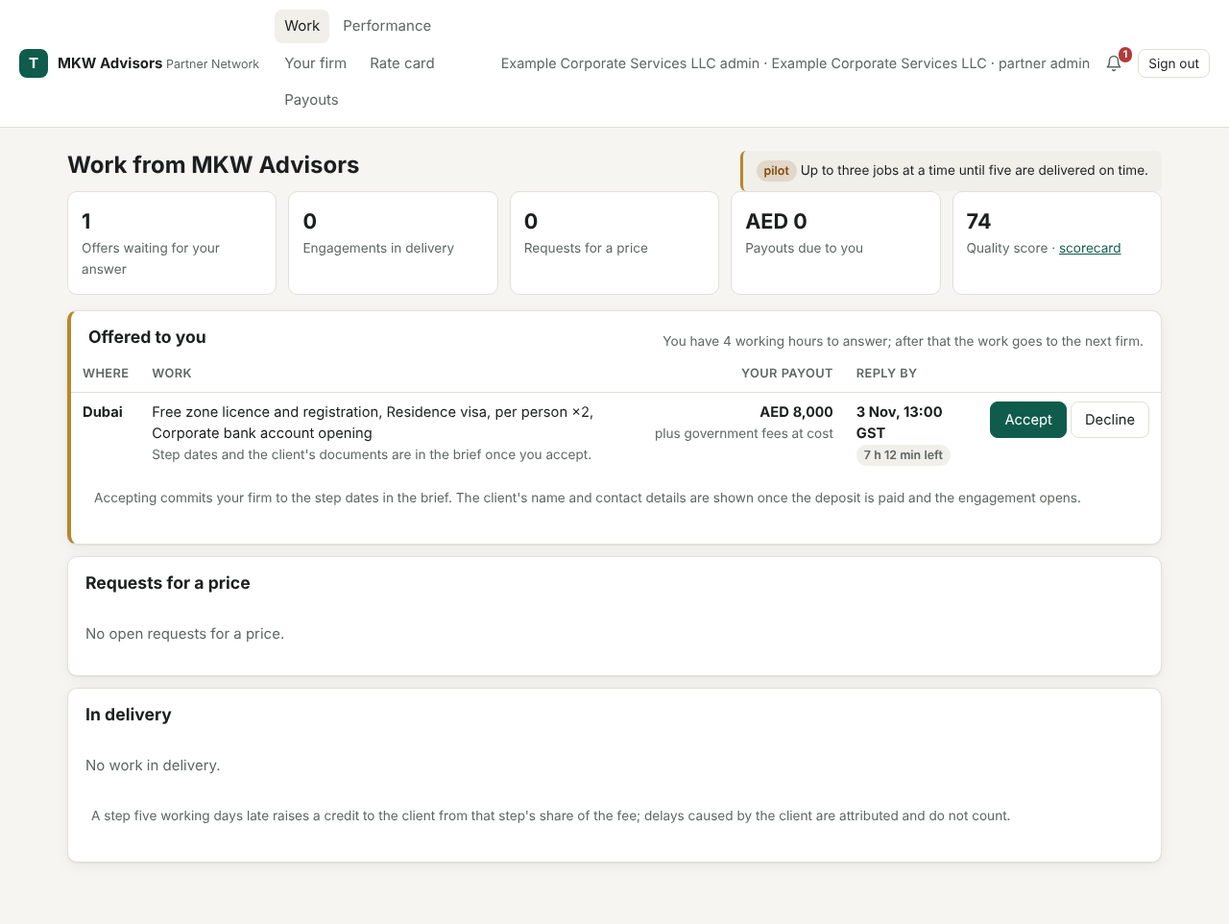
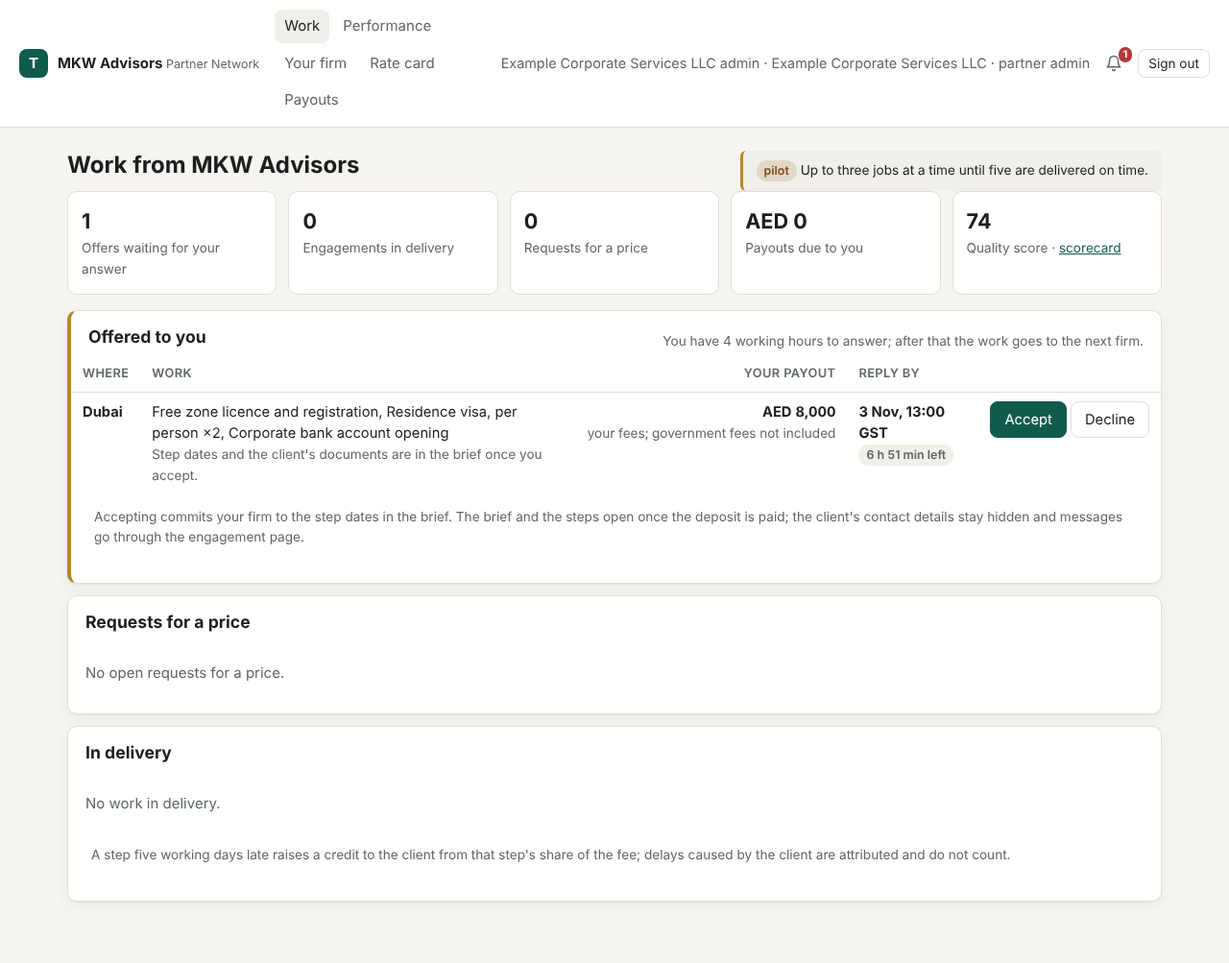
U1 review fixes: Priority tier keeps its name, toast above the tab bar, summary reason and count, partner wording
Codex (PR 23): "Faster" promised a pace the delivery plan does not keep; the tier reads "Priority", the offer switch
names no pace, gap 85 records the follow-up (quoted working days into offer lines, proposal and plan).
Independent review: the toast had no z-index under the phone tab bar; "In short" showed the first reason even when
the engine had moved away from the preferred or requested structure, and counted at most two points to confirm;
the partner work page claimed the client's contact details appear (rule 9) and both partner pages claimed
government fees are reimbursed against receipts (unverified; Ask-me recorded); "accepted" became "opened"; an
Arabic pattern for the offer chip; two smoke checks that could not fail tightened; the Arabic gap check the
outcome claimed now exists (U1 strings must not be in the reviewer's gap list; older gaps recorded as 87);
gap 86 for the partner tab title.

Claude-Session: https://claude.ai/code/session_01QzEGiu7q2Qy5LpHAKh2X9v

diff --git a/apps/web/public/i18n-ar.js b/apps/web/public/i18n-ar.js
@@ -527,11 +527,11 @@ export const AR = {
   "Compliance calendar": "تقويم الالتزامات",
   "Dates confirmed by a person at MKW Advisors; nothing is filed for you unless it is part of an offer.": "التواريخ يؤكدها شخص في MKW Advisors؛ ولا يُقدَّم أي شيء نيابة عنك ما لم يكن ضمن عرض.",
   "Full calendar": "التقويم الكامل",
-  "One offer, with a faster option": "عرض واحد، مع خيار أسرع",
+  "One offer, with another option": "عرض واحد، مع خيار آخر",
   "One offer, with other options": "عرض واحد، مع خيارات أخرى",
-  "The same scope and the same partner standard either way; only the pace differs.": "النطاق نفسه ومعيار الشريك نفسه في الحالتين؛ لا يختلف إلا الإيقاع.",
+  "The same scope and the same partner standard either way; the price and the partner firm differ.": "النطاق نفسه ومعيار الشريك نفسه في الحالتين؛ ويختلف السعر والشركة الشريكة.",
   "Choose an option": "اختر خياراً",
-  "Faster": "أسرع",
+  "Priority": "أولوية",
   "Standard": "قياسي",
   "Essential": "أساسي",
   "selected": "المحدد",
@@ -580,9 +580,10 @@ export const AR_PATTERNS = [
   // U1 workspace redesign (draft)
   [/^(A|An) (free zone company|mainland company|offshore company|DIFC or ADGM company)(?: in (.+?))? fits what you told us\.(?: (?:One thing needs|(\d+) things need) confirming before we quote\.)?$/, (m) => `${{ "free zone company": "شركة في منطقة حرة", "mainland company": "شركة في البر الرئيسي", "offshore company": "شركة أوفشور", "DIFC or ADGM company": "شركة في مركز دبي المالي العالمي أو سوق أبوظبي العالمي" }[m[2]]}${m[3] ? ` في ${m[3]}` : ""} تناسب ما أخبرتنا به.${m[4] ? ` ${m[4]} أمور تحتاج إلى تأكيد قبل أن نسعّر.` : /needs confirming/.test(m[0]) ? " أمر واحد يحتاج إلى تأكيد قبل أن نسعّر." : ""}`],
   [/^(?:The setup estimate for (.+?) is (AED [\d,.]+) to (AED [\d,.]+); it becomes a price only when a partner firm quotes\. )?Where to register, what follows after setup and the tax points are below, each with its confidence\.$/, (m) => `${m[1] ? `تقدير تأسيس ${m[1]} هو ${m[2]} إلى ${m[3]}؛ ولا يصبح سعراً إلا عندما تقدّم شركة شريكة عرضها. ` : ""}أين تسجّل، وما يلي التأسيس، والنقاط الضريبية أدناه، كلٌّ بدرجة ثقته.`],
-  [/^Switch to (Faster|Standard|Essential)$/, (m) => `التحويل إلى ${{ Faster: "الأسرع", Standard: "القياسي", Essential: "الأساسي" }[m[1]]}`],
+  [/^Switch to (Priority|Standard|Essential)$/, (m) => `التحويل إلى ${{ Priority: "الأولوية", Standard: "القياسي", Essential: "الأساسي" }[m[1]]}`],
   [/^about (\d+) working days$/, (m) => `نحو ${m[1]} يوم عمل`],
   [/^Accept this offer · (AED [\d,.]+)$/, (m) => `قبول هذا العرض · ${m[1]}`],
+  [/^(Priority|Standard|Essential) · (AED [\d,.]+)$/, (m) => `${{ Priority: "أولوية", Standard: "قياسي", Essential: "أساسي" }[m[1]]} · ${m[2]}`],
   [/^(\d+) of (\d+) approved$/, (m) => `اعتُمدت ${m[1]} من ${m[2]}`],
   [/^(AED [\d,.]+) due now$/, (m) => `${m[1]} مستحقة الآن`],
   [/^(\d+) credits?$/, (m) => `${m[1]} رصيد (أرصدة)`],

diff --git a/apps/web/public/js/ops.js b/apps/web/public/js/ops.js
@@ -341,12 +341,16 @@ export function inShort(a) {
   const rec = a.structure.recommendation;
   const place = a.places[0];
   const structureFindings = (a.structures ?? []).find((s) => s.structure === rec)?.findings ?? [];
-  const toConfirm = [...(place?.findings ?? []).filter((f) => f.outcome === "condition" || f.outcome === "unknown"), ...structureFindings.filter((f) => f.outcome === "condition")].slice(0, 2);
+  const allToConfirm = [...(place?.findings ?? []).filter((f) => f.outcome === "condition" || f.outcome === "unknown"), ...structureFindings.filter((f) => f.outcome === "condition")];
+  const toConfirm = allToConfirm.slice(0, 2);
   const none = a.noViableOption || !rec || !STRUCTURE_NOUN[rec];
   const headline = none
     ? "No option fits every answer yet; a specialist at MKW Advisors looks at your case."
-    : `${/^[aeiou]/i.test(STRUCTURE_NOUN[rec]) ? "An" : "A"} ${STRUCTURE_NOUN[rec]}${place?.emirate ? ` in ${place.emirate}` : ""} fits what you told us.${toConfirm.length ? ` ${toConfirm.length === 1 ? "One thing needs" : `${toConfirm.length} things need`} confirming before we quote.` : ""}`;
-  const why = a.structure.reasons[0];
+    : `${/^[aeiou]/i.test(STRUCTURE_NOUN[rec]) ? "An" : "A"} ${STRUCTURE_NOUN[rec]}${place?.emirate ? ` in ${place.emirate}` : ""} fits what you told us.${allToConfirm.length ? ` ${allToConfirm.length === 1 ? "One thing needs" : `${allToConfirm.length} things need`} confirming before we quote.` : ""}`;
+  // When the engine moved away from the preferred or requested structure, the reason that says so is the one that
+  // explains the headline; otherwise the first reason argues for the structure named.
+  const turning = ["structure.preferred_excluded", "structure.no_viable_place", "structure.requested_differs", "structure.no_viable_option"];
+  const why = [...a.structure.reasons].reverse().find((r) => turning.includes(r.ruleKey)) ?? a.structure.reasons[0];
   return `<section class="summary" aria-labelledby="short-h"><p class="eyebrow">In short</p><h2 id="short-h">${esc(headline)}</h2>
     ${why ? `<p><span data-no-i18n>${esc(why.text)}</span> ${confBadge(why.confidence)}</p>` : ""}
     ${toConfirm.length ? `<div class="confirm">${toConfirm.map((f) => `<div>${badge("pending", "to confirm")}<span data-no-i18n>${esc(f.text)}</span></div>`).join("")}</div>` : ""}

diff --git a/apps/web/public/js/engagement.js b/apps/web/public/js/engagement.js
@@ -380,7 +380,7 @@ function renderPartnerEngagement(e, parts) {
   $app.innerHTML = `
   <p><a href="#/">← Work</a></p>
   <div class="row between"><h1>Engagement · ${esc(e.engagement.emirate)}${e.engagement.freeZone ? ` · ${esc(e.engagement.freeZone)}` : ""}</h1>${badge(e.engagement.status)}</div>
-  <p class="muted">${parts.done} of ${ms.length} steps approved · accepted ${date(e.engagement.createdAt)} · the client's contact details are hidden; message through this page</p>
+  <p class="muted">${parts.done} of ${ms.length} steps approved · opened ${date(e.engagement.createdAt)} · the client's contact details are hidden; message through this page</p>
   <div class="grid cols-2 eng">
     <div class="stack">
       ${nextCard}
@@ -390,7 +390,7 @@ function renderPartnerEngagement(e, parts) {
     <div class="stack">
       ${panel("All steps", stepsList, { state: `${parts.done} of ${ms.length} approved${next ? " · 1 yours now" : ""}`, open: true })}
       ${parts.docsCard() ? panel(`Documents from the client ${toReceive ? badge("warn", `${toReceive} to confirm`) : docsOpen ? badge("pending", `${docsOpen} outstanding`) : badge("ok", "complete")}`, stripCard(parts.docsCard()).replace(/^[^]*?<\/h2>/, ""), { id: "docs", open: toReceive > 0 }) : ""}
-      ${panel("Scope and your fees", `${stripCard(parts.linesCard())}<p class="small muted">Your own rate card as accepted. Government fees are reimbursed at cost against the receipt. The client's price is set by MKW Advisors and is not shown here.</p>`, { state: e.lines.some((l) => l.partnerUnitCost != null) ? `${aed(fees)} + government fees at cost` : "" })}
+      ${panel("Scope and your fees", `${stripCard(parts.linesCard())}<p class="small muted">Your own rate card as accepted; government fees are not part of this figure. The client's price is set by MKW Advisors and is not shown here.</p>`, { state: e.lines.some((l) => l.partnerUnitCost != null) ? `${aed(fees)} your fees` : "" })}
       ${parts.moneyCard()}
       ${parts.creditsCard()}
       ${parts.changeOrders()}

diff --git a/apps/web/public/js/client.js b/apps/web/public/js/client.js
@@ -2,8 +2,9 @@
 import { STRUCTURE_LABEL } from "./ops.js";
 import { $app, aed, api, badge, date, deliverables, dropzone, esc, isPlatform, legalBlock, nameOf, obligationLabel, obligationTone, panel, role, table, translatePage, words } from "./core.js";
 
-/** How an offer's tier reads to the client (U1): the priority tier is the same scope at a faster pace. */
-export const TIER_LABEL = { essential: "Essential", standard: "Standard", priority: "Faster" };
+/** How an offer's tier reads to the client (U1). The priority tier is priced on the quickest partner quote, but the proposal's
+ * estimate and the delivery plan come from the scope templates, so the screen makes no pace promise (gap 85). */
+export const TIER_LABEL = { essential: "Essential", standard: "Standard", priority: "Priority" };
 export const tierLabel = (t) => TIER_LABEL[t] ?? words(t);
 
 // What each kind of next action asks the client to do, as a button.
@@ -105,7 +106,7 @@ export async function renderClientOffer(id) {
   <p class="lead">A proposal from MKW Advisors for ${esc(o.lines.map((l) => l.name).join(", "))}. Vetted partner firms do the work; MKW Advisors manages the scope, the price, the quality and the payments.</p>
   ${
     siblings.length > 1
-      ? `<section class="card" aria-labelledby="pick-h"><div class="row between"><h2 id="pick-h">One offer, with ${siblings.length === 2 ? "a faster option" : "other options"}</h2><span class="small muted">The same scope and the same partner standard either way; only the pace differs.</span></div>
+      ? `<section class="card" aria-labelledby="pick-h"><div class="row between"><h2 id="pick-h">One offer, with ${siblings.length === 2 ? "another option" : "other options"}</h2><span class="small muted">The same scope and the same partner standard either way; the price and the partner firm differ.</span></div>
           <nav class="tiers" aria-label="Choose an option">${siblings
             .map((s) =>
               s.id === o.id

diff --git a/apps/web/public/js/partner.js b/apps/web/public/js/partner.js
@@ -43,12 +43,12 @@ export async function renderPartnerHome() {
         offered.map(
           (a) => `<tr><td><b>${esc(a.brief?.emirate ?? "")}</b>${a.brief?.freeZone ? `<br><span class="small muted">${esc(a.brief.freeZone)}</span>` : ""}</td>
           <td>${esc((a.brief?.lines ?? a.codes.map((c) => ({ code: c, qty: 1 }))).map((l) => `${l.name ?? nameOf(l.code)}${l.qty > 1 ? ` ×${l.qty}` : ""}`).join(", "))}<br><span class="small muted">Step dates and the client's documents are in the brief once you accept.</span></td>
-          <td class="num"><b>${aed(a.payoutTotal)}</b><br><span class="small muted">plus government fees at cost</span></td><td><b>${dateTime(a.deadline)}</b><br>${timeLeft(a.deadline)}</td>
+          <td class="num"><b>${aed(a.payoutTotal)}</b><br><span class="small muted">your fees; government fees not included</span></td><td><b>${dateTime(a.deadline)}</b><br>${timeLeft(a.deadline)}</td>
           <td style="white-space:nowrap">${admin ? `<button class="primary" data-act="alloc" data-id="${a.id}" data-decision="accept">Accept</button> <button data-act="alloc" data-id="${a.id}" data-decision="decline">Decline</button>` : `<span class="small muted">Your admin replies</span>`}</td></tr>`,
         ),
         "Nothing waiting. New work arrives here and by email; you have 4 working hours to reply.",
       )}
-      ${offered.length ? `<p class="small muted pad" style="padding-top:0">Accepting commits your firm to the step dates in the brief. The client's name and contact details are shown once the deposit is paid and the engagement opens.</p>` : ""}
+      ${offered.length ? `<p class="small muted pad" style="padding-top:0">Accepting commits your firm to the step dates in the brief. The brief and the steps open once the deposit is paid; the client's contact details stay hidden and messages go through the engagement page.</p>` : ""}
     </div>
     <div class="card flush"><h2>Requests for a price</h2>
       ${

diff --git a/apps/web/public/styles.css b/apps/web/public/styles.css
@@ -150,7 +150,7 @@ legend { padding: 0 6px; color: var(--muted); font-size: 0.85rem; }
 .mono { font-family: ui-monospace, SFMono-Regular, Menlo, monospace; font-size: 0.82rem; word-break: break-all; }
 
 #toast {
-  position: fixed; left: 50%; bottom: 20px; transform: translateX(-50%); max-width: calc(100% - 32px);
+  position: fixed; left: 50%; bottom: 20px; transform: translateX(-50%); max-width: calc(100% - 32px); z-index: 30;
   background: var(--text); color: var(--bg); padding: 10px 16px; border-radius: 8px; opacity: 0;
   pointer-events: none; transition: opacity 0.2s;
 }
@@ -337,6 +337,8 @@ nav#nav a svg { display: none; }
     min-height: 48px; padding: 4px 2px; font-size: 0.68rem; font-weight: 600; border-radius: 8px; color: var(--muted); text-align: center; line-height: 1.15;
   }
   body[data-audience="client"] nav#nav a.on, body[data-audience="partner"] nav#nav a.on { background: transparent; color: var(--brand); }
+  /* Confirmations sit above the tab bar, not under it. */
+  body[data-audience="client"] #toast, body[data-audience="partner"] #toast { bottom: calc(84px + env(safe-area-inset-bottom)); }
   body[data-audience="client"] nav#nav a svg, body[data-audience="partner"] nav#nav a svg { display: block; }
   body[data-audience="client"] main, body[data-audience="partner"] main { padding-bottom: 96px; }
   .summary { padding: var(--space-4); }

diff --git a/outcomes/U1-workspace-redesign.md b/outcomes/U1-workspace-redesign.md
@@ -6,7 +6,7 @@ designs into the web app", after the design canvas and its review round of the s
 ## Business result
 
 A client opens Tasees and sees the one thing that needs them, with the date something happens if they do nothing;
-reads the advice as two sentences before the reasoning; sees one offer with a faster option; and works an engagement
+reads the advice as two sentences before the reasoning; sees one offer with its other options as a switch; and works an engagement
 from a short page where documents, steps and payments fold away until needed. A partner sees the work offered with
 the four facts the decision needs and a reply countdown, and works an engagement from its next step. Both work on a
 phone with a tab bar. Nothing a role could not see before becomes visible.
@@ -19,7 +19,7 @@ phone with a tab bar. Nothing a role could not see before becomes visible.
 2. **Advice page** (`renderRequest`, client branch): an "In short" card (one plain sentence, why, and the points to
    confirm before quoting) above the full reasoning, which sits in one collapsible panel, open by default.
 3. **Offer page** (`renderClientOffer`): one offer shown as selected, the other published tiers as a switch, with
-   "Faster" as the display label of the priority tier; the proposal sections as today.
+   tier names from one map, none promising a pace; the proposal sections as today.
 4. **Client engagement** (`renderClientEngagement`): the next action and messages above the fold; documents (open
    while any is outstanding), steps, payments, guarantee credits, rating, scope changes and what was bought as
    collapsible panels whose headings carry their state.
@@ -37,7 +37,7 @@ phone with a tab bar. Nothing a role could not see before becomes visible.
 ## Exclusions
 
 - No API change and no new data: every figure shown comes from endpoints the role already reads.
-- No change to how ops builds offers or which tiers exist; "Faster" is a label on the client's screen only.
+- No change to how ops builds offers or which tiers exist; tier names are labels on the client's screen only.
 - No Arabic for partner screens (O15); no dark-mode work beyond what the tokens already give.
 - The ops and finance screens are untouched, including their view of an engagement.
 
@@ -45,9 +45,10 @@ phone with a tab bar. Nothing a role could not see before becomes visible.
 
 - `pnpm test` and `pnpm typecheck` pass (no API change; the suites prove nothing regressed).
 - The browser smoke test passes on a fresh demo with its existing checks and new ones: the "In short" card on the
-  advice; the offer shows "Faster"; the client engagement folds its panels and keeps the pinned action and timeline;
+  advice; the offer switch names no pace; the client engagement folds its panels and keeps the pinned action and timeline;
   the partner engagement opens on the next step and still hides client prices; the phone tab bar at 390 px for a
-  client and a partner; axe clean on every new screen at 1280 and 390 px; no untranslated client string in Arabic.
+  client and a partner; axe clean on every new screen at 1280 and 390 px; no string U1 added is reported untranslated
+  on the client screens visited in Arabic.
 - Screenshots of each changed screen at 1280 and 390 px under `docs/evidence/U1/`.
 
 ## Dependencies and risks
@@ -61,6 +62,10 @@ phone with a tab bar. Nothing a role could not see before becomes visible.
 
 - None to merge. Whether ops should stop building the "essential" tier is a product decision; the screen handles any
   number of tiers.
+- **Ask-me: how government fees are settled with partner firms.** The partner screens now say only that government
+  fees are not part of the payout figure, because nothing in the repository or the partner agreement says whether a
+  firm pays the authority and is reimbursed against the receipt or MKW pays directly. The review removed a sentence
+  that assumed the first. The answer belongs in the partner agreement (O7 lawyer sign-off) and then on the screen.
 
 ## Rollback
 
@@ -70,8 +75,8 @@ phone with a tab bar. Nothing a role could not see before becomes visible.
 
 | Claim | Evidence |
 | --- | --- |
-| Tests | `pnpm typecheck` clean; `pnpm test`: 105 core + 333 API (1 skipped on PGlite) = 438, unchanged: no API change |
-| Smoke | `docs/evidence/U1/smoke-log.txt`: 220 checks OK on a fresh demo (E6: 213), the 7 new ones marked U1: the partner's offer row carries a reply countdown and no client price; the partner's next step is pinned with its evidence upload; the client engagement opens on the next action and folds the rest into panels; the client and partner menus are bottom tab bars at 390 px; the advice opens with a plain summary before the reasoning; axe on the partner's work page at 390 px |
+| Tests | `pnpm typecheck` clean; `pnpm test`: 105 core + 333 API (1 skipped on PGlite) = 438, unchanged: no API change; rerun after the review fixes |
+| Smoke | `docs/evidence/U1/smoke-log.txt`: 221 checks OK on a fresh demo (E6: 213), the 8 new ones marked U1 (the eighth reads the Arabic gap list after the review): the partner's offer row carries a reply countdown and no client price; the partner's next step is pinned with its evidence upload; the client engagement opens on the next action and folds the rest into panels; the client and partner menus are bottom tab bars at 390 px; the advice opens with a plain summary before the reasoning; axe on the partner's work page at 390 px |
 | Accessibility | `axe.json`: 41 screens at 1280 and 390 px, 0 violations |
 | Screens | `36-client-advice.png` (In short above the reasoning), `13-client-engagement-approved.png` (next action, messages, panels), `07-client-offer.png`, `11-partner-engagement.png` (pinned next step), `10-partner-offered-work.png` (countdown), `75-mobile-client-home.png` and `93-mobile-partner-work.png` (tab bars at 390 px), `81-mobile-client-advice.png` |
 | Audit chain | `pnpm verify:audit` on the smoke demo: intact |
@@ -79,7 +84,30 @@ phone with a tab bar. Nothing a role could not see before becomes visible.
 
 ## Independent review
 
-(Recorded below once the reviewer reports.)
+Two reviews of the diff at 2925d7e, both applied in the commit that follows it:
+
+- **Codex (PR 23, P2):** "Faster" promised a pace the plan does not keep: the priority tier is priced on the quote
+  with the fewest working days, but offer lines do not store them, so the proposal's estimate and the milestone dates
+  come from the scope templates for every tier. Fixed by keeping the name "Priority", dropping the pace sentence from
+  the offer switch, and recording gap 85; the Arabic entries and the smoke check follow.
+- **Independent review agent (must-fix):** (1) toasts painted under the phone tab bar, since `#toast` had no z-index:
+  fixed, with the toast lifted above the bar for clients and partners; (2) "In short" could argue for a structure
+  other than the one it named, because it took the first reason while the engine appends the reason for moving away
+  from the preferred or requested structure: fixed, the summary now shows that reason when one exists; (3) the partner
+  work page said the client's name and contact details appear once the engagement opens, which rule 9 forbids: fixed,
+  the sentence now says the brief and steps open and contact details stay hidden.
+- **Should-fix, all applied:** the summary counted at most two points to confirm and called that the total (counts
+  before slicing now); "government fees reimbursed at cost against the receipt" was an unverified claim (removed;
+  Ask-me above); "accepted <date>" on the partner engagement used the client's acceptance date (now "opened"); the
+  outcome claimed an Arabic-gap smoke check that did not exist (added: the gap list the reviewer sees, read after the
+  client screens are visited in Arabic, must hold none of the strings U1 added; the older strings it does hold are
+  gap 87); the offer chip on the client home lacked an Arabic pattern (added);
+  two smoke checks could not fail (tightened: the points to confirm are between one and two, and the partner row must
+  carry the payout wording).
+- **Not changed, recorded:** the partner's "Ask the client" form sits in the documents panel, open only while a
+  document awaits them (discoverability; pre-existing placement); the browser tab title reads "… · Tasees" for every
+  signed-in role, including partners, which pre-dates U1 (gap 86); the `work` option of `milestoneActions` is never
+  passed as false (kept for the ops view, which the next outcome may use).
 
 ## Could not verify
 

diff --git a/docs/KNOWN-GAPS.md b/docs/KNOWN-GAPS.md
@@ -215,9 +215,22 @@ in a browser; everything listed here is not.
     first-ranked place, the first reason and up to two findings to confirm. A case whose most important point is the
     third finding reads less sharply; the full reasoning is always one panel below.
 83. **The offer switch shows what ops built.** If ops build three tiers the client sees three; the design's "one
-    offer with a faster option" is the two-tier case. Whether to stop building the essential tier is a product decision.
+    offer with another option" is the two-tier case. Whether to stop building the essential tier is a product decision.
 84. **The partner's offer row does not show the client's document status before acceptance**, because the allocation
     brief does not carry it; the row says so. Adding it means widening the brief, a later change.
+85. **The priority tier's speed does not reach the client.** Tier selection picks the quote with the fewest working
+    days, but offer lines do not store them: the proposal's estimate and the engagement's milestone dates come from the
+    scope templates, the same for every tier. The screen therefore calls the tier "Priority" and promises no pace
+    (raised in the U1 review). Carrying the quoted working days into offer lines, the proposal and the delivery plan is
+    an API and schema change for a later outcome.
+86. **The browser tab title says "Tasees" for partners.** `document.title` follows the heading with " · Tasees" for
+    every signed-in role (`js/core.js`), so a partner's tab carries the client brand; the page itself is branded MKW
+    Advisors Partner Network. Pre-dates U1; noted in its review. Fix: pick the suffix by audience.
+87. **Arabic entries missing for some E5 and E6 client strings.** The gap list the Arabic reviewer sees, read by the
+    smoke test after the client screens are visited in Arabic, carries "This offer is accepted.", "On the licence",
+    "Renewal requested", "Already answered on our public page?", "Saved result code", "Start from my saved result" and
+    the intake placeholders, beside service names, amounts and file names that are left as they are by design. U1's
+    own strings are checked not to be in it; the older ones wait for the dictionary round with the reviewer (O15).
 
 ## O7: launch-gate preparation
 

diff --git a/docs/DESIGN.md b/docs/DESIGN.md
@@ -43,7 +43,7 @@ new, add a token or a pattern here first.
 | Status chip | `.badge.{ok,warn,bad,info}` via `badge(status, label)` | Everywhere |
 | In short | `section.summary` with `.eyebrow`, one plain `h2`, the first reason with its label, `.confirm` cards for the points to confirm | The client's advice (`inShort` in `js/ops.js`), above `details.reasoning` holding the full advice (U1) |
 | Folding panel | `details.panel > summary > h2 + .state` then `.panel-body`, via `panel(title, body, {state, open, id})` in `js/core.js`; the heading carries the state so a closed panel still says what is in it; a jump opens it first | Client and partner engagement pages; open only while something needs the reader (U1) |
-| Offer switch | `section.card` with `nav.tiers`: the shown tier as `div.tier.best` marked selected, the others as `a.tier` with `.switch`; the priority tier reads "Faster" (`TIER_LABEL` in `js/client.js`) | Client offer (U1) |
+| Offer switch | `section.card` with `nav.tiers`: the shown tier as `div.tier.best` marked selected, the others as `a.tier` with `.switch`; tier names from `TIER_LABEL` in `js/client.js`; no tier claims a pace (gap 85) | Client offer (U1) |
 | Pinned next step | `section.nextaction` reused for the partner: the open step's evidence form inside it, `ul.todo` for what waits on others | Partner engagement (U1) |
 | Tab bar | At 640 px and below, for `body[data-audience="client"|"partner"]`, `nav#nav` becomes a fixed bottom bar; each link carries an inline icon (`ICON` in `js/shell.js`) shown only there | Client and partner phones (U1); MKW staff keep the grouped menu |
 | Progress | `.progress[role=progressbar] > span` | Engagement cards |

diff --git a/docs/DECISIONS.md b/docs/DECISIONS.md
@@ -791,8 +791,10 @@ canvas of 3 Nov 2026 and its review round.)
 - The advice gets a two-sentence summary (the recommended structure, the place it points to, the first reason and
   up to two points to confirm), built only from the engine's own labelled text; the full reasoning follows in one
   panel. Nothing is added to the advice and nothing is dropped from it.
-- The priority tier is shown to clients as "Faster": the same scope at a faster pace, which is what it is. Ops still
-  decide which tiers to build; the screen handles any number, one shown as selected and the others as a switch.
+- The priority tier keeps its name on the client's screen. The design canvas called it "Faster", but the tier is priced
+  on the quickest partner quote while the proposal's estimate and the delivery plan come from the scope templates
+  (`milestonesFor`), so a pace promise would not be kept (gap 85, raised in review). Ops still decide which tiers to
+  build; the screen handles any number, one shown as selected and the others as a switch.
 - On a phone, clients and partners get a bottom tab bar with icons; MKW staff keep the grouped menu, which carries
   fifteen pages. The same `nav#nav` element serves both, so nothing about routing or keyboard access changes.
 - Partner screens stay English (O15 covers Arabic for partners and staff); every new client string has an Arabic
